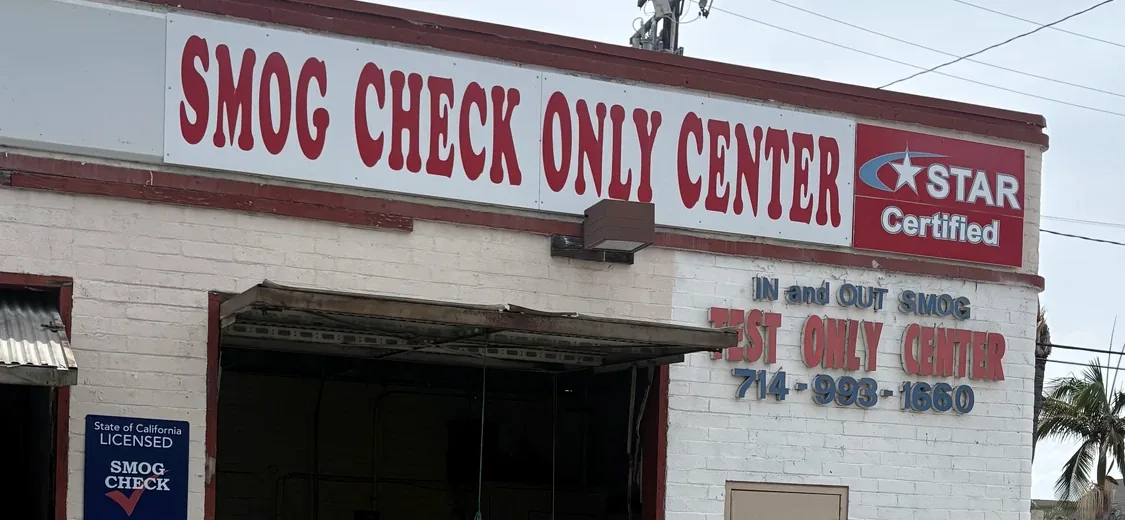
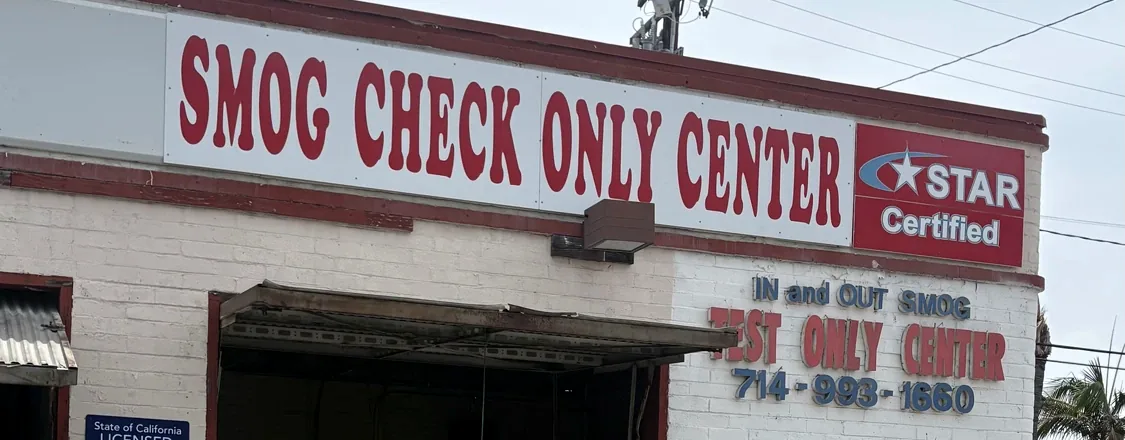
🎯 Everything is live. The "Make Sure You're at the Right Shop" section now has:
- **Real storefront photo** showing your building with the big "SMOG CHECK ONLY CENTER" sign, STAR Certified badge, "IN and OUT SMOG - Test Only Center - 714-993-1660" all visible right next to the Google Map
- **Real "Sign" close-up** — a tight crop of the branded signage
- **Real driveway view** with palm trees and the wide concrete apron

Combined with the address card, the "verify GPS" note, and the Google map, a customer literally cannot mistake your shop for the one on Chapman anymore. They know exactly what to look for.

I also **upgraded your Open Graph share image** to include the real storefront photo — so when someone shares your site in iMessage/Facebook/WhatsApp, they now see a preview card with your actual building instead of the cartoon mascot.

---

Still to come once you send more photos (or say to move on with what we have):
- **Inspection bay / interior shot** — great trust builder for a "This Is Our Shop" section
- **Technician working / team photo** — huge conversion driver ("real humans work here")

And still queued from the master prompt (I can do these anytime you say go):
- Full **hero rebuild** with 4 premium badges (⚡ ~10 Min · ⭐ STAR · 🚗 Walk-Ins · 📄 DMV Cert)
- **Speed Timeline** (Drive In → Inspect → Test → DMV Sent → Drive Away)
- **"Why We're Faster"** 6-card grid
- **Nearby Cities SEO grid** (7 cities)
- **Trust badges strip** (Since 1999 · STAR · BAR · Test-Only · DMV · No Upsells)
[…]

diff --git a/frontend/src/components/LocationVerify.jsx b/frontend/src/components/LocationVerify.jsx
@@ -1,25 +1,11 @@
-import Seo from "@/components/Seo";
-
 /**
  * "Make Sure You're at the Right Shop" — location verification section.
  * Designed to reduce accidental visits to nearby shops without naming them.
- * Emphasizes:
- *   - Exact street: S BRADFORD AVE (not Chapman)
- *   - Full address in large type
- *   - Google Maps embed pinned to our exact location
- *   - Photo slots (storefront / sign / driveway) — swap in real shots
- *   - Explicit "verify GPS" note
  */
 export default function LocationVerify() {
   const ADDRESS = "144 S Bradford Ave, Placentia, CA 92870";
   const MAPS_EMBED = `https://www.google.com/maps?q=${encodeURIComponent(ADDRESS)}&output=embed`;
   const MAPS_DIR = `https://www.google.com/maps/dir/?api=1&destination=${encodeURIComponent(ADDRESS)}`;
-
-  const photoSlots = [
-    { id: "storefront", icon: "🏢", label: "This is our building", tag: "Storefront" },
-    { id: "sign", icon: "🪧", label: "Look for this sign", tag: "Our Sign" },
-    { id: "driveway", icon: "🚗", label: "Pull in right here", tag: "Driveway" },
-  ];
 
   return (
     <section className="location-verify" data-testid="location-verify-section" id="verify">
@@ -88,19 +74,44 @@ export default function LocationVerify() {
           </div>
 
           <div className="lv-photos" data-testid="lv-photos">
-            {photoSlots.map((p) => (
-              <figure
-                key={p.id}
-                className="lv-photo"
-                data-testid={`lv-photo-${p.id}`}
-              >
-                <div className="lv-photo-inner">
-                  <span className="lv-photo-icon" aria-hidden="true">{p.icon}</span>
-                  <span className="lv-photo-tag">{p.tag}</span>
-                </div>
-                <figcaption>{p.label}</figcaption>
-              </figure>
-            ))}
+            <figure className="lv-photo" data-testid="lv-photo-storefront">
+              <div className="lv-photo-inner">
+                <img
+                  src="/photos/storefront.webp"
+                  alt="In & Out Smog Check storefront on S Bradford Ave in Placentia — white brick building with red-trim SMOG CHECK ONLY CENTER sign and STAR Certified badge"
+                  loading="lazy"
+                  decoding="async"
+                />
+                <span className="lv-photo-tag">Storefront</span>
+              </div>
+              <figcaption>This is our building</figcaption>
+            </figure>
+
+            <figure className="lv-photo" data-testid="lv-photo-sign">
+              <div className="lv-photo-inner">
+                <img
+                  src="/photos/sign.webp"
+                  alt="Close-up of In & Out Smog Check red 'SMOG CHECK ONLY CENTER' sign with STAR Certified badge visible from the street"
+                  loading="lazy"
+                  decoding="async"
+                />
+                <span className="lv-photo-tag">Our Sign</span>
+              </div>
+              <figcaption>Look for this sign</figcaption>
+            </figure>
+
+            <figure className="lv-photo" data-testid="lv-photo-driveway">
+              <div className="lv-photo-inner">
+                <img
+                  src="/photos/driveway.webp"
+                  alt="Wide concrete driveway and parking area at 144 S Bradford Ave — the view when pulling into In & Out Smog Check"
+                  loading="lazy"
+                  decoding="async"
+                />
+                <span className="lv-photo-tag">Driveway</span>
+              </div>
+              <figcaption>Pull in right here</figcaption>
+            </figure>
           </div>
         </div>
 

diff --git a/frontend/src/site.css b/frontend/src/site.css
@@ -344,22 +344,31 @@ a{color:#7fd4ff;}
 .lv-photos{display:grid;grid-template-columns:1fr;gap:14px;}
 .lv-photo{
   margin:0;background:#0c223b;
-  border:1px dashed rgba(127,212,255,.2);
+  border:1px solid rgba(127,212,255,.15);
   border-radius:18px;overflow:hidden;
   display:flex;flex-direction:column;
+  transition:transform .2s, border-color .2s;
 }
+.lv-photo:hover{transform:translateY(-2px);border-color:rgba(127,212,255,.4);}
 .lv-photo-inner{
-  aspect-ratio:16/10;background:
-    linear-gradient(135deg, rgba(127,212,255,.06), rgba(255,255,255,0)),
-    #0c223b;
-  display:flex;flex-direction:column;align-items:center;justify-content:center;gap:8px;
-  color:#7fd4ff;
+  position:relative;
+  aspect-ratio:16/10;
+  background:#0c223b;
+  overflow:hidden;
 }
-.lv-photo-icon{font-size:2.6rem;line-height:1;}
+.lv-photo-inner img{
+  width:100%;height:100%;object-fit:cover;
+  display:block;
+  transition:transform .5s ease;
+}
+.lv-photo:hover .lv-photo-inner img{transform:scale(1.04);}
 .lv-photo-tag{
+  position:absolute;left:12px;bottom:12px;
   font-size:.72rem;font-weight:800;letter-spacing:1.8px;
-  text-transform:uppercase;color:#b9cce0;
-  padding:4px 10px;border:1px solid rgba(127,212,255,.25);border-radius:40px;
+  text-transform:uppercase;color:#fff;
+  padding:6px 12px;
+  background:rgba(6,20,36,.85);backdrop-filter:blur(8px);
+  border:1px solid rgba(127,212,255,.3);border-radius:40px;
 }
 .lv-photo figcaption{
   padding:12px 16px;font-size:.95rem;color:#d8e8f7;

diff --git a/frontend/src/components/StickyMobileNav.jsx b/frontend/src/components/StickyMobileNav.jsx
@@ -1,8 +1,9 @@
+import { useState } from "react";
+
 /**
  * Sticky bottom mobile nav — Directions | Call | Hours
  * Hidden on ≥841px (desktop), always visible on mobile.
  */
-import { useState } from "react";
 
 const HOURS_TEXT = [
   ["Monday", "8AM – 5PM"],
